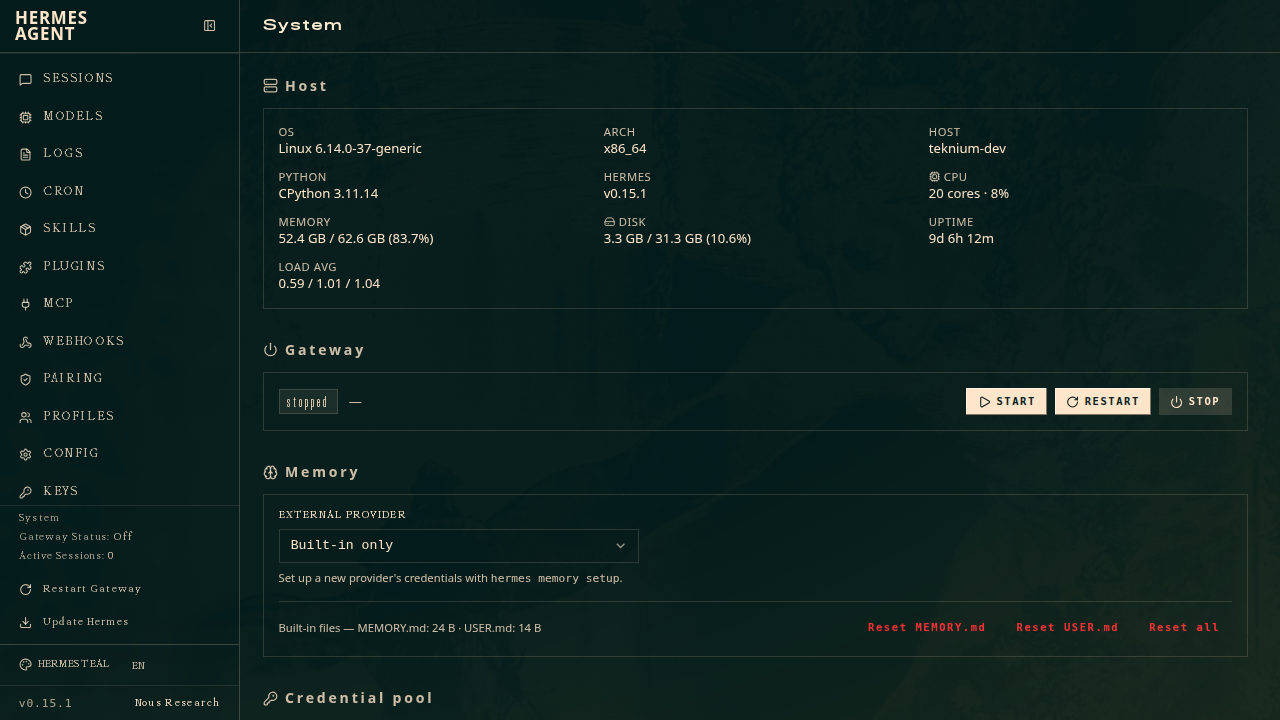
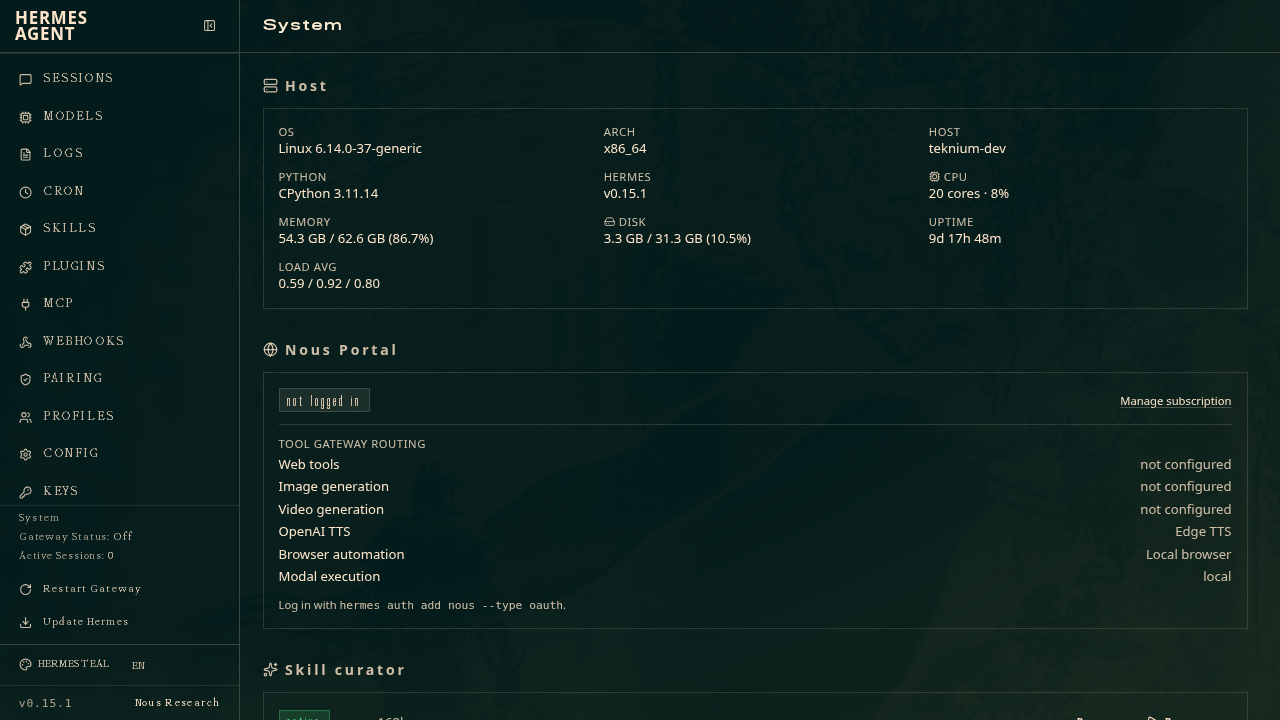
docs(dashboard): document curator, portal, and diagnostics + refresh System screenshots
Updates the System section for the Nous Portal status, Skill curator
controls, and the new prompt-size/dump/migrate operations; adds them to the
API table; refreshes the System screenshots (now showing Portal + Curator)
and adds a dedicated curator/gateway/memory capture.

diff --git a/website/docs/user-guide/features/web-dashboard.md b/website/docs/user-guide/features/web-dashboard.md
@@ -235,14 +235,18 @@ onboards Telegram/Discord/etc. users to a paired gateway. Full parity with
 A consolidated administration panel for installation-wide operations:
 
 - **Host** — live system stats: OS / kernel, architecture, hostname, Python and Hermes versions, CPU core count + utilization, memory, disk usage of the Hermes home, uptime, and load average. (CPU/memory/disk come from `psutil` when installed; identity fields are always shown.)
+- **Nous Portal** — login status, the active inference provider, and the Tool Gateway routing table (which tools run via the Portal vs. locally), with a link to manage your subscription. Read-only mirror of `hermes portal`.
+- **Skill curator** — the background skill-maintenance status (active / paused, interval, last run) with pause/resume and a run-now button. Mirrors `hermes curator`.
 - **Gateway** — start, stop, and restart the messaging gateway, with live status (running/stopped, PID, state)
 - **Memory** — pick the external memory provider (or built-in only), and reset the built-in `MEMORY.md` / `USER.md` stores
 - **Credential pool** — add and remove the rotating API keys the agent round-robins through (per provider). Keys are redacted in the list; the raw value only ever reaches the agent.
-- **Operations** — run `doctor`, a security audit, create a backup, restore from a backup archive, or update skills. Each spawns a background action whose live log streams into the page.
+- **Operations** — run `doctor`, a security audit, create a backup, restore from a backup archive, update skills, show the system-prompt size breakdown, generate a support dump, or migrate config for retired settings. Each spawns a background action whose live log streams into the page.
 - **Checkpoints** — see the `/rollback` shadow store size and prune it
 - **Shell hooks** — list configured hooks with their consent + executable status, **create** a hook (event, command, matcher, timeout, with an opt-in consent grant), and remove one. Hooks run arbitrary commands, so the create form carries a security warning and the hook only fires after consent is granted.
 
-![System admin page — host stats and gateway lifecycle](/img/dashboard/admin-system-top.png)
+![System admin page — host stats and Nous Portal status](/img/dashboard/admin-system-top.png)
+
+![System admin page — skill curator, gateway, memory, and credential pool](/img/dashboard/admin-system-curator.png)
 
 ![System admin page — operations, checkpoints, and shell hooks](/img/dashboard/admin-system-ops.png)
 
@@ -398,6 +402,9 @@ same auth gate as the rest of `/api/`.
 | `GET /api/ops/checkpoints` · `POST .../prune` | Inspect / prune the `/rollback` store |
 | `POST /api/ops/hooks` · `DELETE /api/ops/hooks` | Create / remove a shell hook (consent-gated) |
 | `GET /api/system/stats` | Host stats — OS, CPU, memory, disk, uptime |
+| `GET /api/curator` · `PUT .../paused` · `POST .../run` | Skill-curator status + pause/resume + run |
+| `GET /api/portal` | Nous Portal auth + Tool Gateway routing (read-only) |
+| `POST /api/ops/prompt-size` · `/dump` · `/config-migrate` | Diagnostics (backgrounded) |
 | `PUT /api/webhooks/{name}/enabled` | Enable / disable a webhook route |
 | `POST /api/skills/hub/install` · `/uninstall` · `/update` | Skills hub actions (backgrounded) |
 